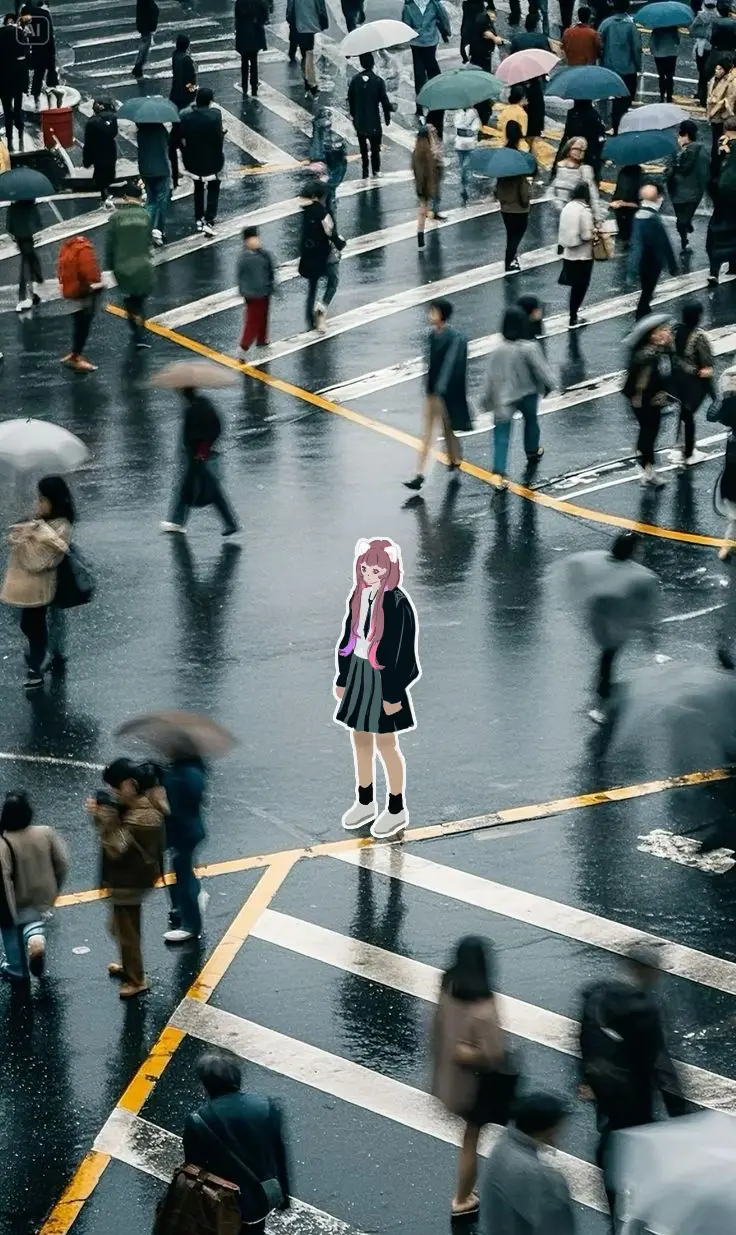
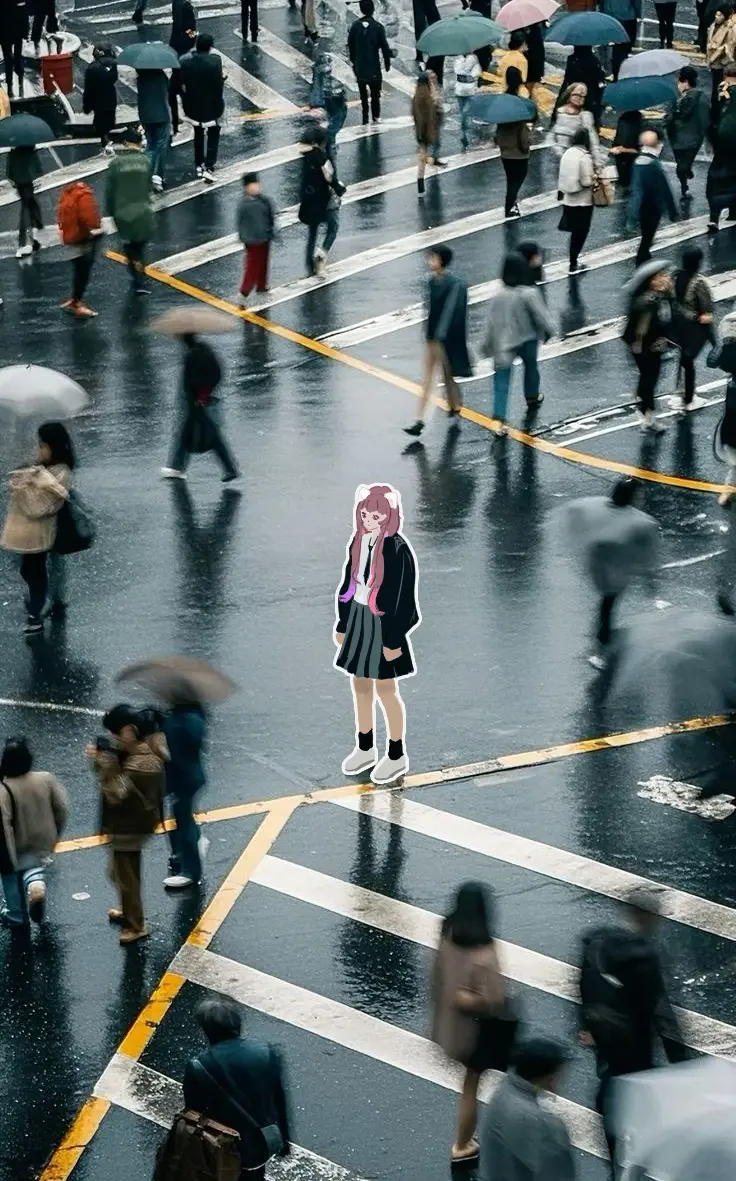
fix: update 3rd image, fix caption overlap, and enable lightbox for newspaper images

diff --git a/js/news.js b/js/news.js
@@ -8,11 +8,11 @@ const NEWS_ISSUES = [
                 <!-- Левая колонка со слайдером (60%) -->
                 <div class="np-col-60" style="align-self: flex-start;">
                     <div class="np-slider">
-                        <picture class="np-slide active" id="news2-slide-0">
+                        <picture class="np-slide active" id="news2-slide-0" onclick="openLightbox(this)" role="button" tabindex="0" style="cursor: pointer;">
                             <source srcset="img/news/news 24.08.2026 %231.webp" type="image/webp">
                             <img src="img/news/news 24.08.2026 %231.jpg" alt="Мем 1">
                         </picture>
-                        <picture class="np-slide" id="news2-slide-1">
+                        <picture class="np-slide" id="news2-slide-1" onclick="openLightbox(this)" role="button" tabindex="0" style="cursor: pointer;">
                             <source srcset="img/news/news 24.08.2026 %232.webp" type="image/webp">
                             <img src="img/news/news 24.08.2026 %232.jpg" alt="Мем 2">
                         </picture>
@@ -27,7 +27,7 @@ const NEWS_ISSUES = [
                             <div class="np-dot" id="news2-dot-1" onclick="setNewsSlide(1)"></div>
                         </div>
                     </div>
-                    <p style="text-align: center; font-size: 13px; color: #777; font-style: italic; margin-top: 8px;">(Листайте вправо, чтобы увидеть больше)</p>
+                    <p style="text-align: center; font-size: 13px; color: #777; font-style: italic; margin-top: 8px;">(Нажмите на картинку, чтобы увеличить. Листайте вправо, чтобы увидеть больше)</p>
                 </div>
                 
                 <!-- Правая колонка с текстом (40%) -->
@@ -59,13 +59,13 @@ const NEWS_ISSUES = [
                 
                 <!-- Правая колонка с картинкой 3 (60%) -->
                 <div class="np-col-60" style="align-self: flex-start;">
-                    <div class="np-image-box" style="height: auto; display: block;">
+                    <div class="np-image-box" onclick="openLightbox(this)" role="button" tabindex="0">
                         <picture style="width: 100%; display: block;">
                             <source srcset="img/news/news 24.08.2026 %233.webp" type="image/webp">
-                            <img src="img/news/news 24.08.2026 %233.png" alt="Мем 3" style="width: 100%; height: auto; display: block;">
+                            <img src="img/news/news 24.08.2026 %233.png" alt="Мем 3">
                         </picture>
                     </div>
-                    <p style="text-align: center; font-size: 13px; color: #777; font-style: italic; margin-top: 8px;">Архивные кадры со стрима</p>
+                    <p style="text-align: center; font-size: 13px; color: #777; font-style: italic; margin-top: 8px;">Блядь где я? - Юрумми замечен в городе.</p>
                 </div>
             </div>
         `

diff --git a/index.html b/index.html
@@ -290,14 +290,19 @@
             }
             .np-dot.active { opacity: 1; }
             .np-image-box {
-                width: 100%; height: 100%;
-                max-height: 500px;
+                width: 100%; height: auto;
                 border: 1px solid #999;
-                display: flex;
+                display: block;
+                overflow: hidden;
+                cursor: pointer;
+                transition: transform 0.2s;
+            }
+            .np-image-box:hover {
+                transform: scale(1.02);
             }
             .np-image-box img {
-                width: 100%; height: 100%;
-                object-fit: contain;
+                width: 100%; height: auto;
+                display: block;
             }
         </style>
         <div class="content-container">
